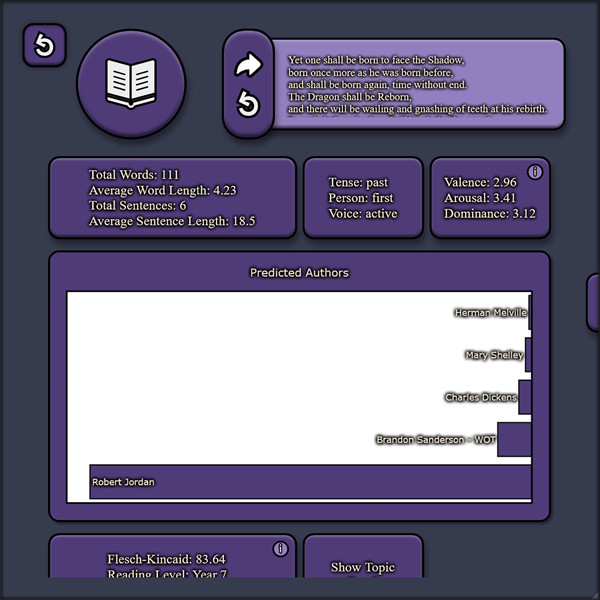
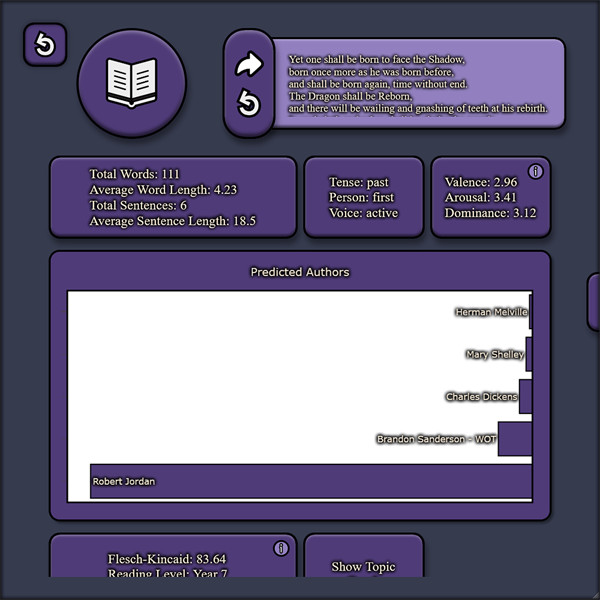
Finishing adding colour variations to intro gallery images

diff --git a/client/src/components/authorAnalysis/Dashboard.jsx b/client/src/components/authorAnalysis/Dashboard.jsx
@@ -56,6 +56,7 @@ function Dashboard({data, functional}) {
         },
         standoff: mobileLayout ? 10 : 16
       },
+      ticks: "",
       tickfont: {
         color: theme.textColor,
         size: mobileLayout ? 12 : 14
@@ -219,7 +220,7 @@ function Dashboard({data, functional}) {
 
   // Trigger window resize event to update Plotly plots
     // Workaround - function listed in documentation not working (likely due to grid and max-height transition)
-  useEffect(() => { window.dispatchEvent(new Event("resize"))}, [reportData, selectedAuthor, showTopicGraph, showWordcloud, hoverText]);
+  useEffect(() => { window.dispatchEvent(new Event("resize"))}, [reportData, selectedAuthor, showTopicGraph, showWordcloud, hoverText, theme]);
 
   return (
     <StyledGrid $showData={showData}>

diff --git a/client/src/components/authorAnalysis/AuthorAnalysis.jsx b/client/src/components/authorAnalysis/AuthorAnalysis.jsx
@@ -418,6 +418,17 @@ function AuthorAnalysis({ transition, home }) {
     list_authors();
   }, []);
 
+  // Update plot colours when theme changes
+  useEffect(() => {
+    setPredictedAuthorsPlotData(prev => ({
+      ...prev,
+      marker: {
+        ...prev.marker,
+        color: theme.primaryColor
+      }
+    }));
+  }, [theme])
+
   return (
     <StyledFlexboxContainer $transition={transition}>
       <ReturnButton returnFunction={home}/>
